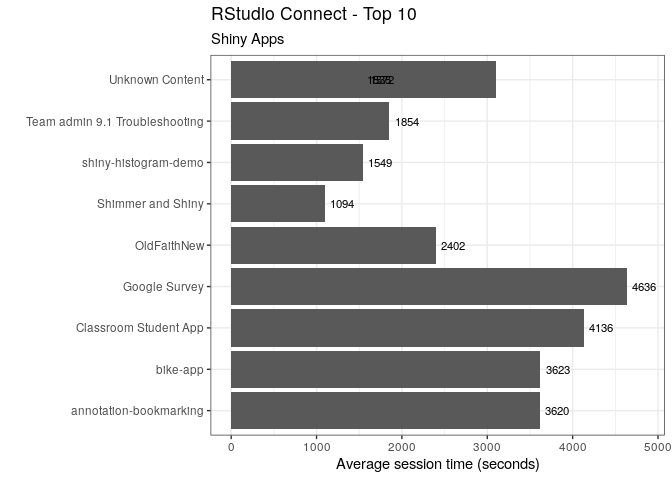
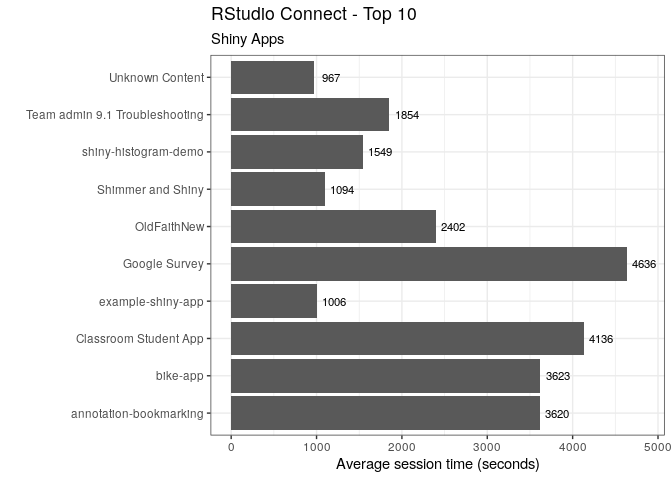
fix subtle bug in readme regenerate readme again

diff --git a/README.md b/README.md
@@ -98,12 +98,12 @@ how long their average sessions are.
 ``` r
 # Calculate the average session duration and sort
 app_sessions <- shiny_rsc %>%
-  group_by(content_guid) %>%
+  inner_join(shiny_rsc_titles, by = "content_guid") %>%
+  group_by(content_name) %>%
   summarise(avg_session = mean(session_duration)) %>%
   ungroup() %>%
   arrange(desc(avg_session)) %>%
-  head(10) %>%
-  inner_join(shiny_rsc_titles, by = "content_guid") 
+  head(10)
   
 # Plot the top 10 used content
 app_sessions %>%
